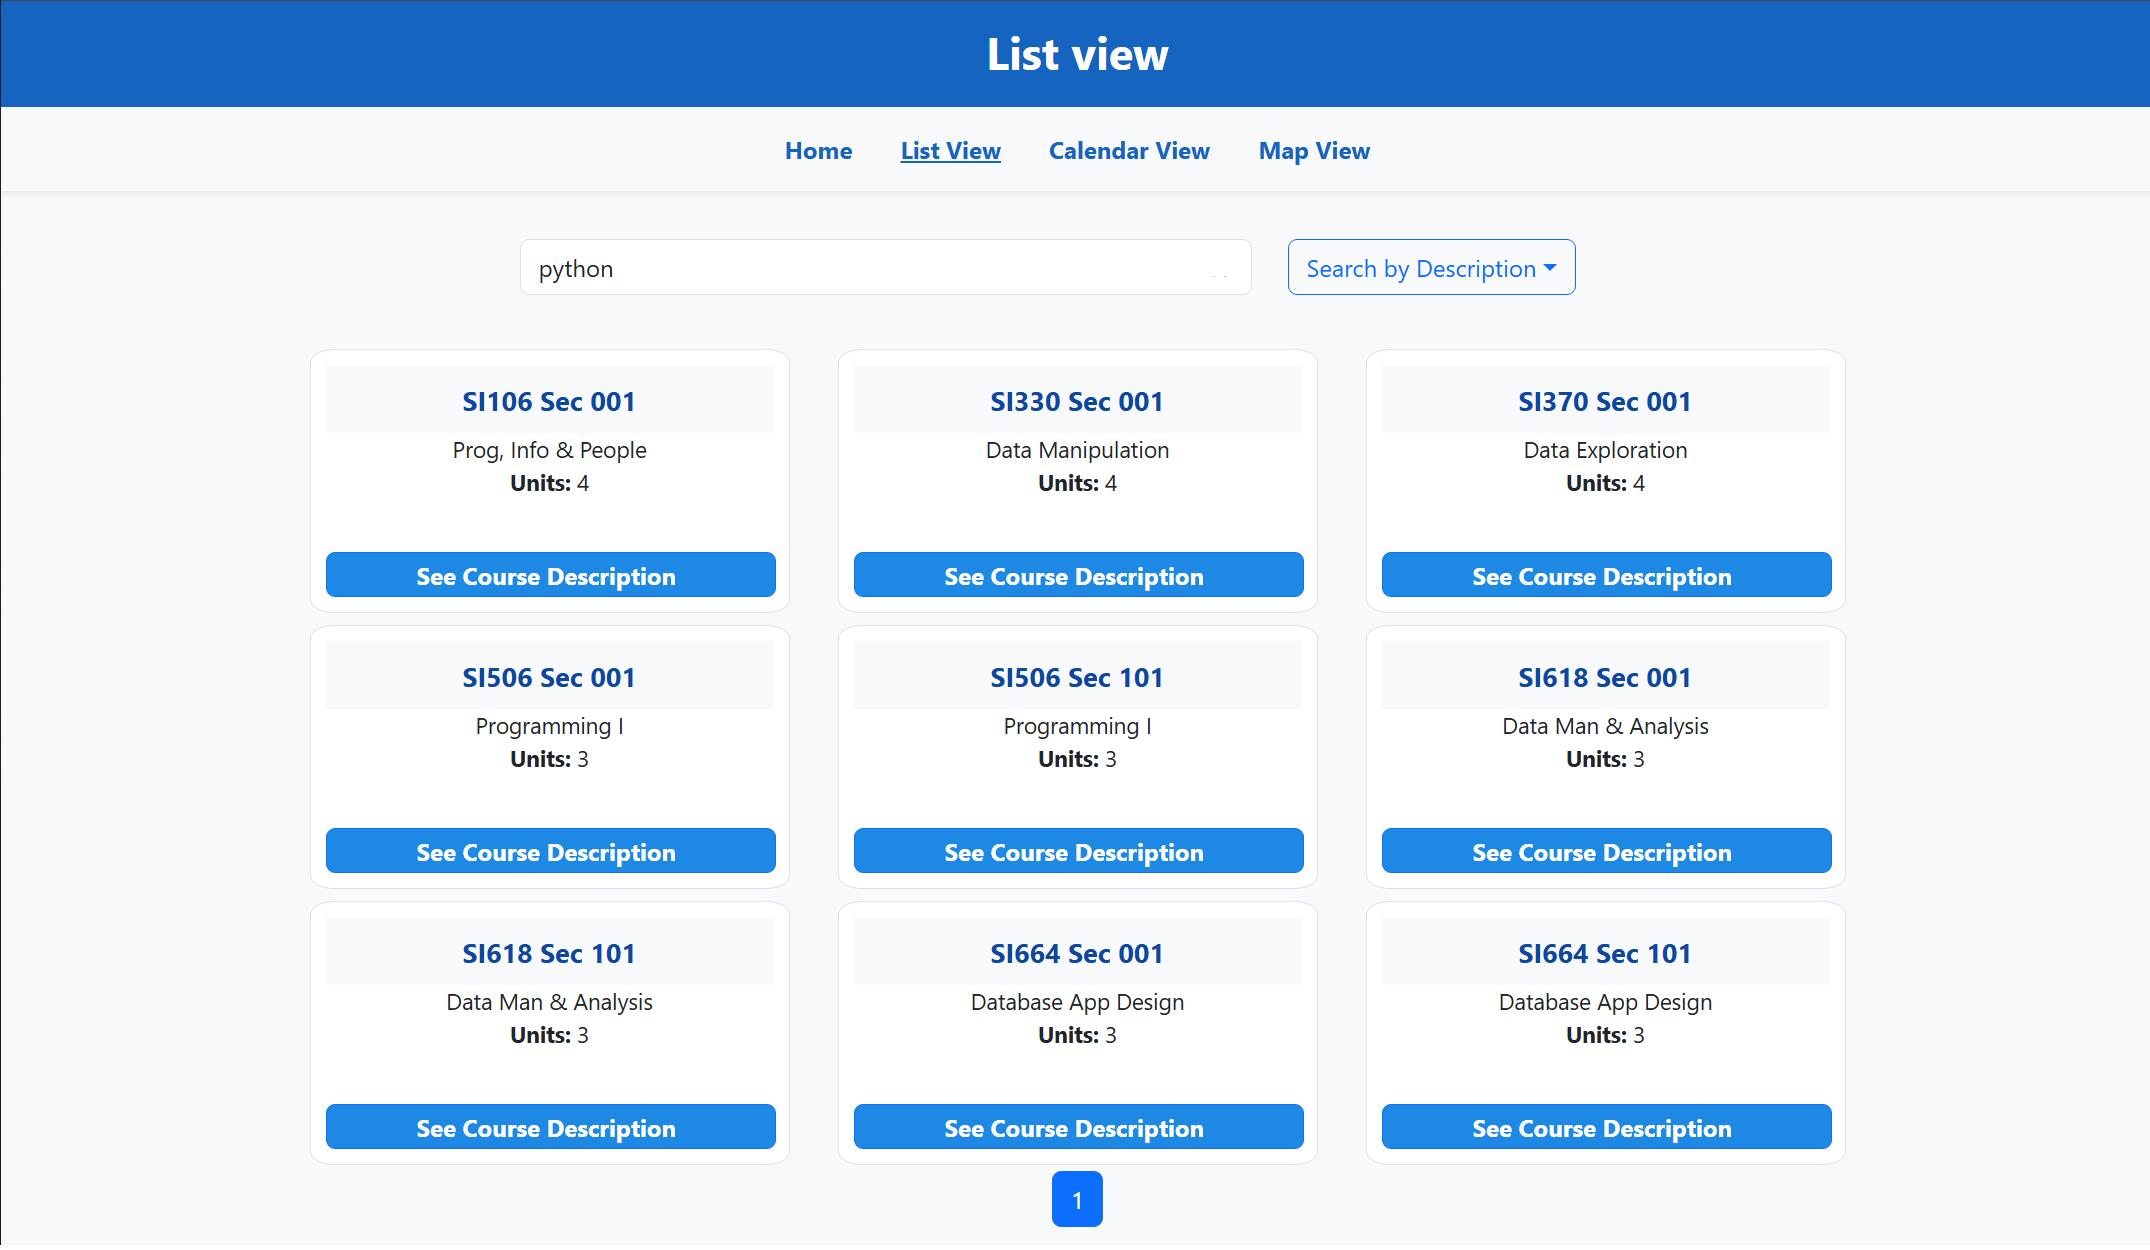
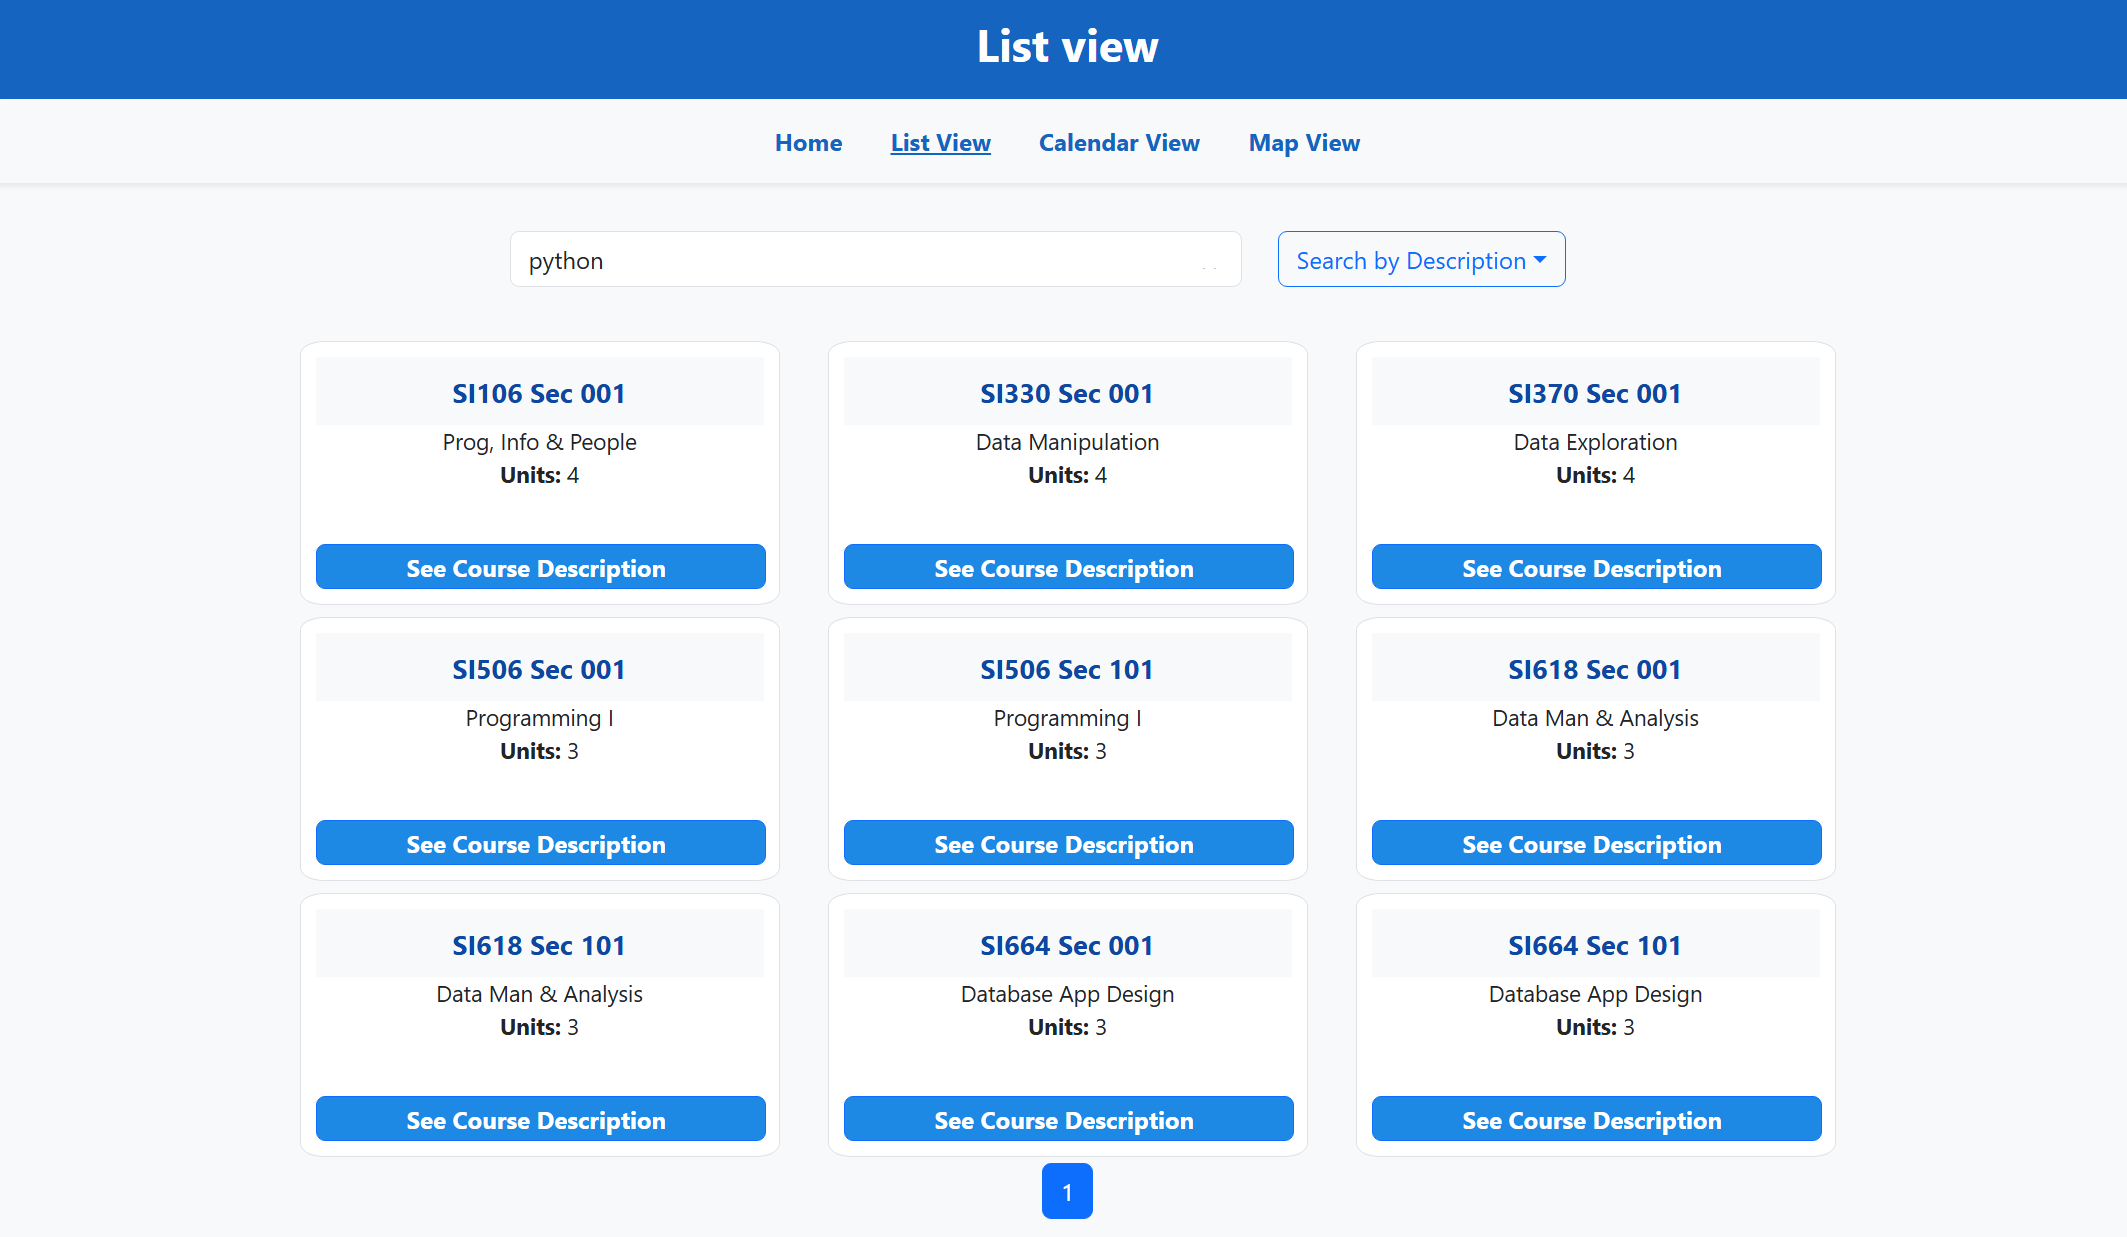
edit photo

diff --git a/README.md b/README.md
@@ -108,22 +108,22 @@ This is an example of how to list things you need to use the software and how to
 ## Example  
 
 ### Homepage
-  <img src="https://raw.githubusercontent.com/jkchi/CourseManagementTool/main/images/main_page.png" alt="Logo" width="1000" height="500">
+  <img src="https://raw.githubusercontent.com/jkchi/CourseManagementTool/main/images/main_page.png" alt="Logo" width="1000" height="600">
 
 ### Calendar View
-  <img src="https://raw.githubusercontent.com/jkchi/CourseManagementTool/main/images/calendar.png" width="1000" height="500"/>
+  <img src="https://raw.githubusercontent.com/jkchi/CourseManagementTool/main/images/calendar.png" width="1000" height="600"/>
 
 ### List View
-  <img src="https://raw.githubusercontent.com/jkchi/CourseManagementTool/main/images/list.png" width="1000" height="500"/>
+  <img src="https://raw.githubusercontent.com/jkchi/CourseManagementTool/main/images/list.png" width="1000" height="600"/>
 
 ### Map View
-  <img src="https://raw.githubusercontent.com/jkchi/CourseManagementTool/main/images/map.png" width="1000" height="500"/>
+  <img src="https://raw.githubusercontent.com/jkchi/CourseManagementTool/main/images/map.png" width="1000" height="600"/>
 
 ### Search and Filter
-  <img src="https://raw.githubusercontent.com/jkchi/CourseManagementTool/main/images/filter_by_keywords.png" width="1000" height="500"/>
+  <img src="https://raw.githubusercontent.com/jkchi/CourseManagementTool/main/images/filter_by_keywords.png" width="1000" height="600"/>
 
 ### Course Detail
-  <img src="https://raw.githubusercontent.com/jkchi/CourseManagementTool/main/images/course_info.png" width="1000" height="500"/>
+  <img src="https://raw.githubusercontent.com/jkchi/CourseManagementTool/main/images/course_info.png" width="1000" height="600"/>
 <!-- CONTACT -->
 
 ## Contact and About Me
